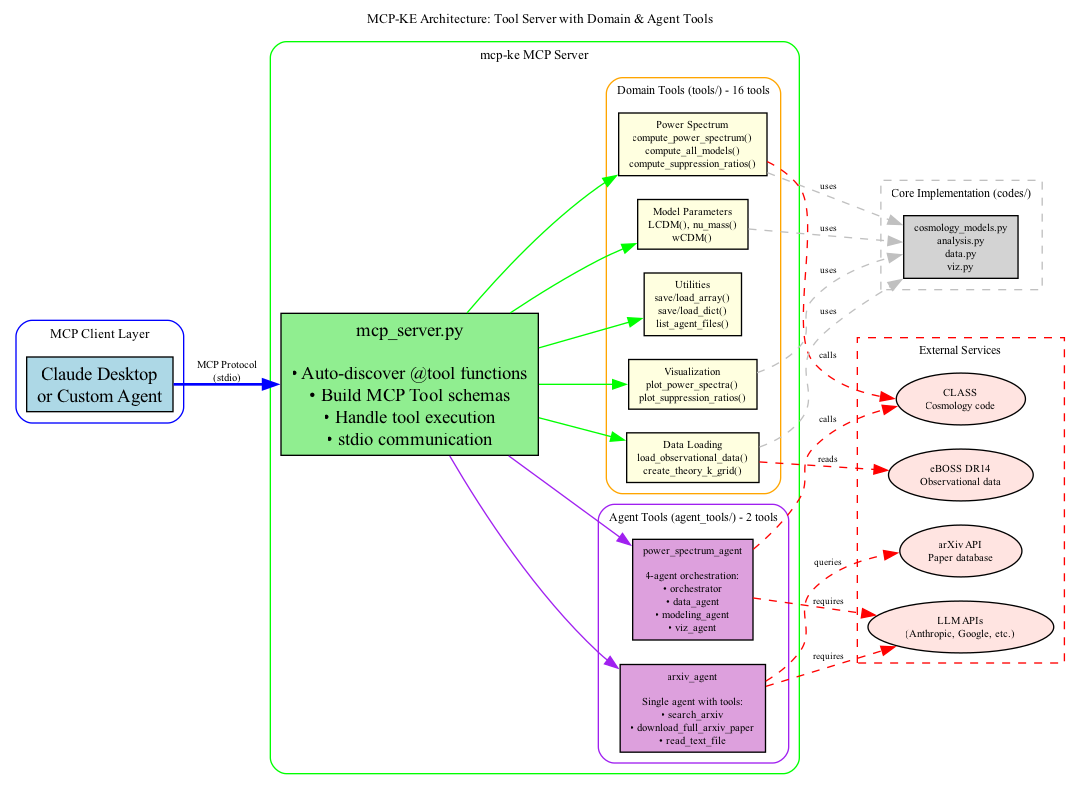
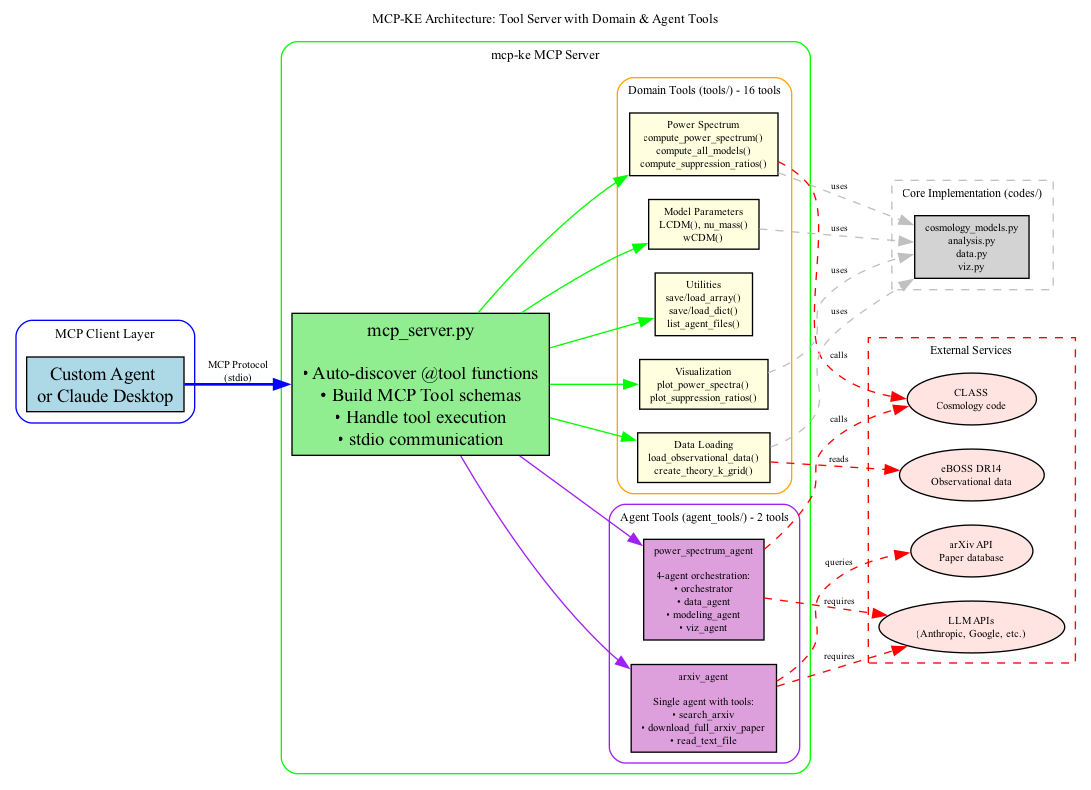
doc

diff --git a/documentation/flowchart.py b/documentation/flowchart.py
@@ -89,7 +89,7 @@ def mcp_overview():
     # MCP Client Layer
     with dot.subgraph(name='cluster_client') as c:
         c.attr(label='MCP Client Layer', style='rounded', color='blue')
-        c.node('claude', 'Claude Desktop\nor Custom Agent', shape='box', style='filled', fillcolor='lightblue')
+        c.node('claude', 'Custom Agent \nor Claude Desktop', shape='box', style='filled', fillcolor='lightblue')
 
     # MCP Server Core
     with dot.subgraph(name='cluster_server') as s:
@@ -161,83 +161,51 @@ def mcp_overview():
 
 def power_spectrum_agent_internals():
     """
-    Detailed view of power_spectrum_agent's internal 4-agent orchestration,
-    showing file-based communication and tool usage.
+    Simplified generic view of multi-agent orchestration showing dataflow.
     """
     dot = Digraph('Power_Spectrum_Agent')
-    dot.attr(rankdir='TB', fontsize='9', labelloc='t',
-             label='power_spectrum_agent: Multi-Agent Workflow with File-Based Communication')
+    dot.attr(rankdir='TB', fontsize='10', labelloc='t',
+             label='Multi-Agent Orchestration: Generic Dataflow Pattern')
 
-    # MCP Client view
-    with dot.subgraph(name='cluster_outer') as c:
-        c.attr(label='MCP Client (Claude Desktop)', style='rounded', color='blue')
-        c.node('claude', 'Claude Desktop', shape='box', style='filled', fillcolor='lightblue')
-        c.node('toolcall', 'call_tool:\npower_spectrum_agent(\n  query="Compare ΛCDM...",\n  api_key="...",\n  llm_url="...",\n  model_id="..."\n)',
-               shape='box', style='filled', fillcolor='lightblue', fontsize='8')
+    # MCP Client
+    dot.node('client', 'MCP Client', shape='box', style='filled', fillcolor='lightblue', fontsize='10')
+
+    # Agent tool entry point
+    dot.node('agent_tool', 'Agent Tool\n(e.g., power_spectrum_agent)',
+             shape='box', style='filled,rounded', fillcolor='lavender', fontsize='10')
 
     # Orchestrator
-    dot.node('orch_agent', 'Orchestrator Agent\n\nCoordinates workflow\nPasses file paths between agents',
-             shape='box', style='filled', fillcolor='wheat')
+    dot.node('orchestrator', 'Orchestrator Agent\n\nCoordinates sub-agents\nManages dataflow',
+             shape='box', style='filled', fillcolor='wheat', fontsize='10')
 
-    # Data Agent
-    with dot.subgraph(name='cluster_data') as data_c:
-        data_c.attr(label='Data Agent', style='rounded', color='green', fontsize='8')
-        data_c.node('data_agent', 'data_agent', shape='box', style='filled', fillcolor='lightgreen', fontsize='8')
-        data_c.node('data_tools', 'Tools:\n• load_observational_data\n• save_array, save_dict',
-                    shape='box', style='dashed', fillcolor='lightgreen', fontsize='7')
-        data_c.node('data_output', 'Saves:\nk_obs.npy\nPk_obs.npy\nerrors_obs.npy',
-                    shape='note', fillcolor='lightyellow', fontsize='7')
+    # Sub-agents in a row
+    dot.node('agent1', 'Sub-Agent 1\n\nData Loading',
+             shape='box', style='filled', fillcolor='lightgreen', fontsize='9')
+    dot.node('agent2', 'Sub-Agent 2\n\nProcessing',
+             shape='box', style='filled', fillcolor='lightcyan', fontsize='9')
+    dot.node('agent3', 'Sub-Agent 3\n\nVisualization',
+             shape='box', style='filled', fillcolor='lightpink', fontsize='9')
 
-    # Modeling Agent
-    with dot.subgraph(name='cluster_model') as model_c:
-        model_c.attr(label='Modeling Agent', style='rounded', color='cyan', fontsize='8')
-        model_c.node('model_agent', 'modeling_agent', shape='box', style='filled', fillcolor='lightcyan', fontsize='8')
-        model_c.node('model_tools', 'Tools:\n• LCDM, nu_mass, wCDM\n• create_theory_k_grid\n• compute_all_models\n• load/save_array',
-                     shape='box', style='dashed', fillcolor='lightcyan', fontsize='7')
-        model_c.node('model_output', 'Saves:\nk_theory.npy\nmodel_results.npy',
-                     shape='note', fillcolor='lightyellow', fontsize='7')
+    # Results
+    dot.node('results', 'Results', shape='box', style='filled', fillcolor='gold', fontsize='10')
 
-    # Viz Agent
-    with dot.subgraph(name='cluster_viz') as viz_c:
-        viz_c.attr(label='Viz Agent', style='rounded', color='pink', fontsize='8')
-        viz_c.node('viz_agent', 'viz_agent', shape='box', style='filled', fillcolor='lightpink', fontsize='8')
-        viz_c.node('viz_tools', 'Tools:\n• plot_power_spectra\n• load_array, load_dict',
-                   shape='box', style='dashed', fillcolor='lightpink', fontsize='7')
-        viz_c.node('viz_output', 'Saves:\nplot.png',
-                   shape='note', fillcolor='lightyellow', fontsize='7')
+    # Main flow
+    dot.edge('client', 'agent_tool', label='1. Query', fontsize='9', penwidth='2', color='blue')
+    dot.edge('agent_tool', 'orchestrator', label='2. Initialize', fontsize='9', color='purple')
 
-    # Final output
-    dot.node('final_report', 'Final Report:\n\n• Analysis summary\n• All file paths',
-             shape='box', style='filled', fillcolor='gold', fontsize='8')
+    # Orchestrator to sub-agents
+    dot.edge('orchestrator', 'agent1', label='3. Task 1', fontsize='8', color='green')
+    dot.edge('agent1', 'orchestrator', label='Data', fontsize='8', color='green', style='dashed')
 
-    # Flow edges
-    dot.edge('claude', 'toolcall', label='User query', fontsize='7')
-    dot.edge('toolcall', 'orch_agent', label='1. Forwarded', fontsize='7', color='purple')
+    dot.edge('orchestrator', 'agent2', label='4. Task 2', fontsize='8', color='cyan')
+    dot.edge('agent2', 'orchestrator', label='Results', fontsize='8', color='cyan', style='dashed')
 
-    # Data agent flow
-    dot.edge('orch_agent', 'data_agent', label='2. "Load eBOSS"', fontsize='7', color='green')
-    dot.edge('data_agent', 'data_tools', style='dashed', fontsize='7')
-    dot.edge('data_tools', 'data_output', fontsize='7')
-    dot.edge('data_agent', 'orch_agent', label='3. File paths:\n/out/k_obs.npy\n...',
-             fontsize='7', color='green')
+    dot.edge('orchestrator', 'agent3', label='5. Task 3', fontsize='8', color='pink')
+    dot.edge('agent3', 'orchestrator', label='Outputs', fontsize='8', color='pink', style='dashed')
 
-    # Modeling agent flow
-    dot.edge('orch_agent', 'model_agent', label='4. "Compute models"', fontsize='7', color='cyan')
-    dot.edge('model_agent', 'model_tools', style='dashed', fontsize='7')
-    dot.edge('model_tools', 'model_output', fontsize='7')
-    dot.edge('model_agent', 'orch_agent', label='5. File paths:\n/out/k_theory.npy\n...',
-             fontsize='7', color='cyan')
-
-    # Viz agent flow
-    dot.edge('orch_agent', 'viz_agent', label='6. "Plot" + paths', fontsize='7', color='pink')
-    dot.edge('viz_agent', 'viz_tools', style='dashed', fontsize='7')
-    dot.edge('viz_tools', 'viz_output', fontsize='7')
-    dot.edge('viz_agent', 'orch_agent', label='7. File paths:\n/out/plot.png',
-             fontsize='7', color='pink')
-
-    # Final assembly
-    dot.edge('orch_agent', 'final_report', label='8. Assemble', fontsize='7', color='orange')
-    dot.edge('final_report', 'claude', label='9. Return', fontsize='7', color='purple', penwidth='2')
+    # Final results
+    dot.edge('orchestrator', 'results', label='6. Assemble', fontsize='9', color='orange')
+    dot.edge('results', 'client', label='7. Return', fontsize='9', penwidth='2', color='blue')
 
     return dot
 
